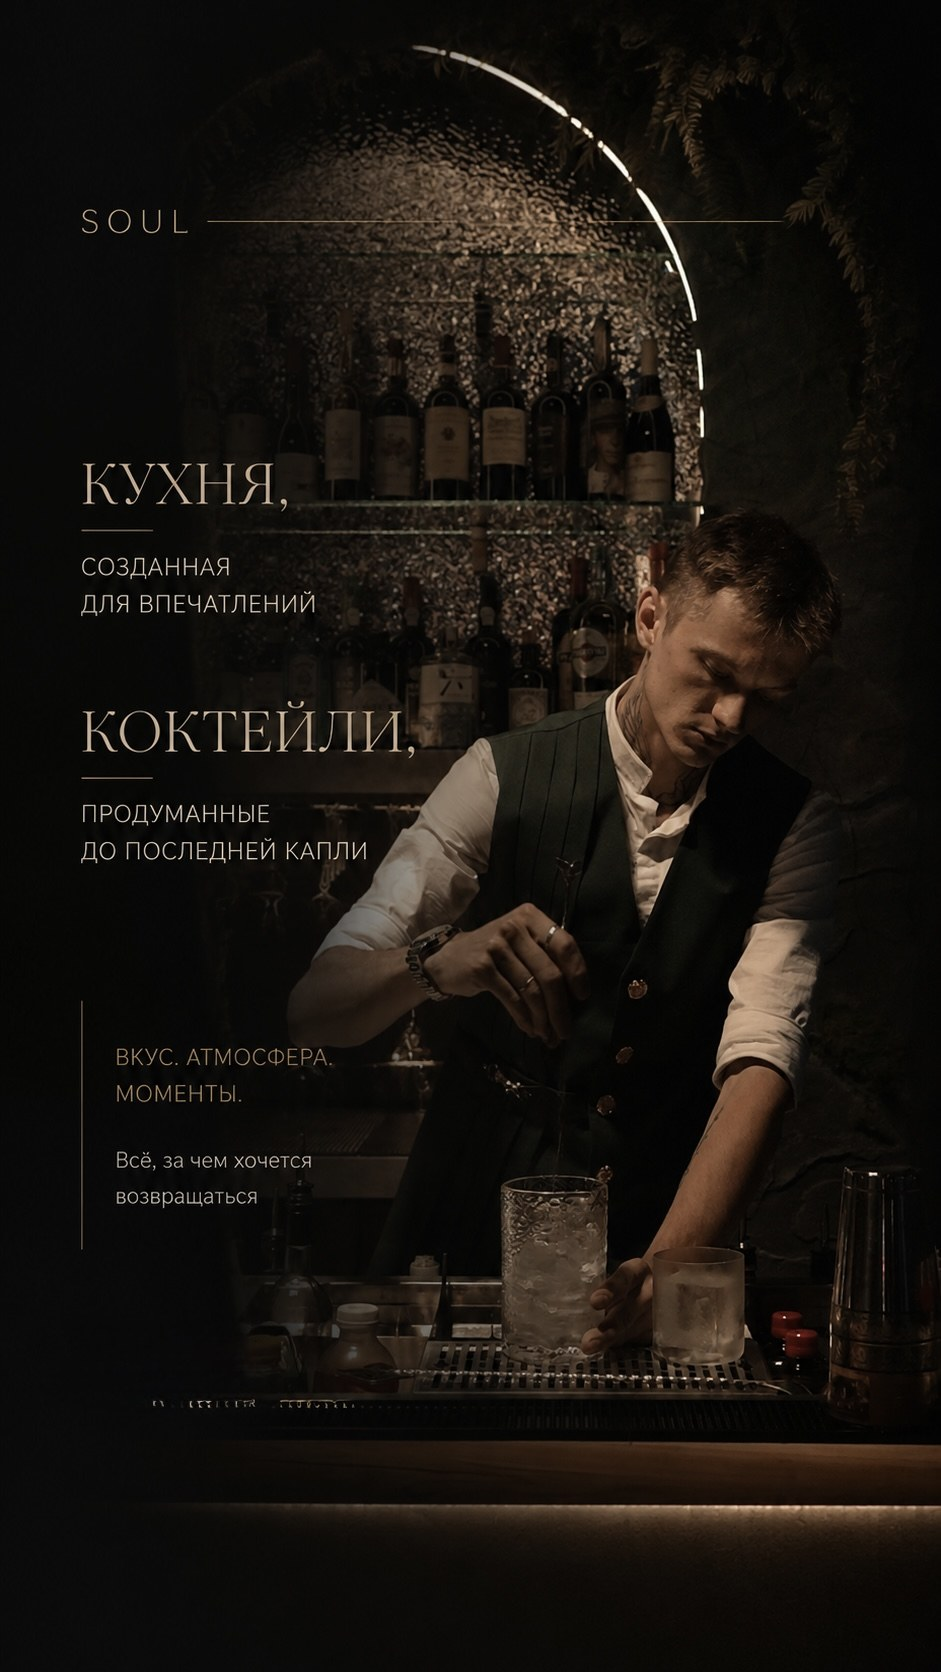
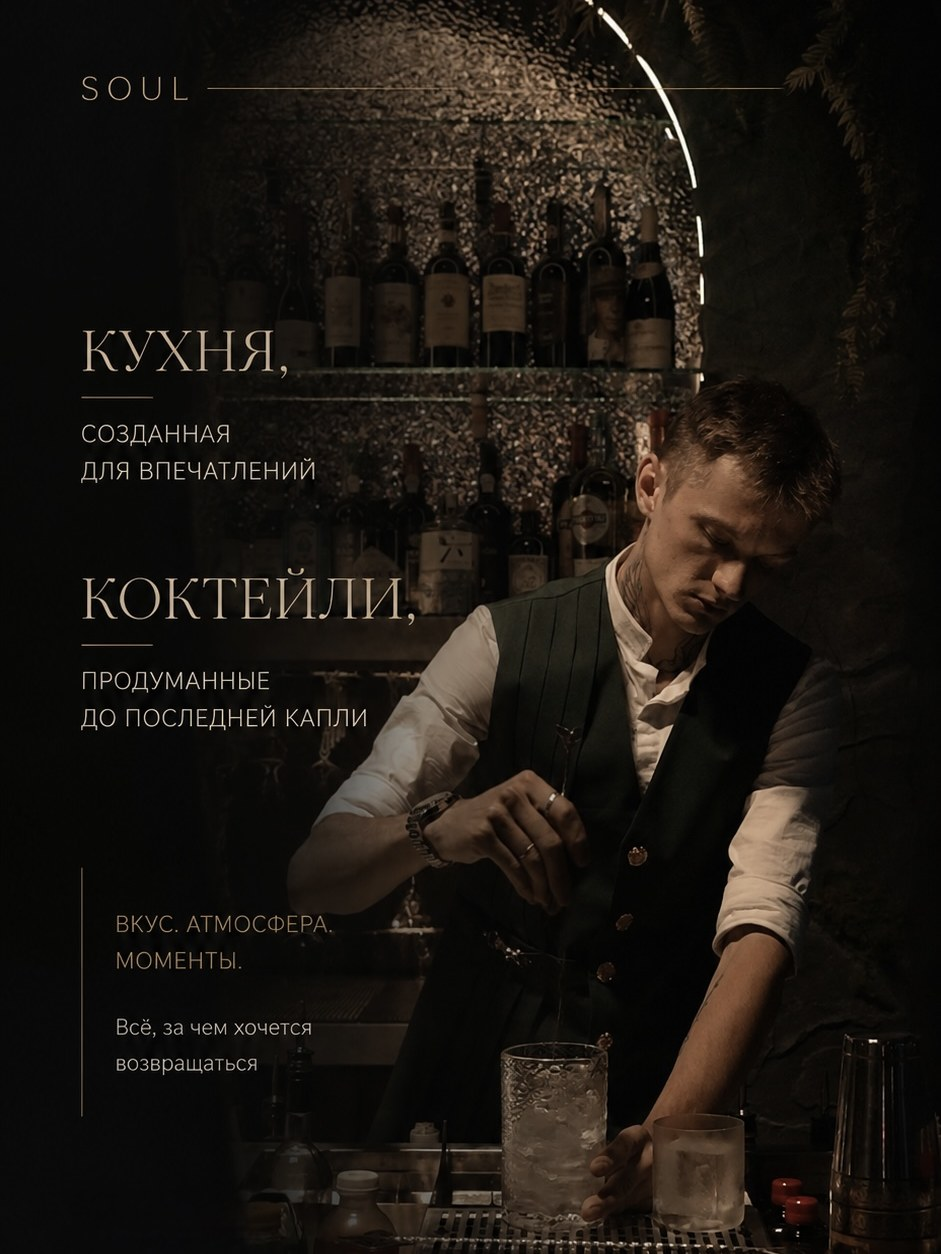
SOUL: crop fixes, equal gallery grid, emerald vine guide
- Uniform gallery tiles (no empty holes from tall spans)
- Better object-position for faces and posters
- Stronger testimonials overlay
- Emerald palette + scroll-growing vine along the page

diff --git a/src/components/shared/VineGuide.tsx b/src/components/shared/VineGuide.tsx
@@ -1,0 +1,67 @@
+"use client";
+
+import { useEffect, useState } from "react";
+
+/** Decorative emerald vine that grows with scroll — guides through the page */
+export function VineGuide() {
+  const [progress, setProgress] = useState(0);
+
+  useEffect(() => {
+    const onScroll = () => {
+      const max = document.documentElement.scrollHeight - window.innerHeight;
+      const p = max > 0 ? window.scrollY / max : 0;
+      setProgress(Math.min(1, Math.max(0, p)));
+    };
+    onScroll();
+    window.addEventListener("scroll", onScroll, { passive: true });
+    return () => window.removeEventListener("scroll", onScroll);
+  }, []);
+
+  const pathLen = 2400;
+  const dash = pathLen * (0.12 + progress * 0.88);
+
+  return (
+    <div className="vine-guide" aria-hidden>
+      <svg viewBox="0 0 60 2400" preserveAspectRatio="none">
+        <defs>
+          <linearGradient id="vineGrad" x1="0" y1="0" x2="0" y2="1">
+            <stop offset="0%" stopColor="#1a8a72" stopOpacity="0.2" />
+            <stop offset="40%" stopColor="#b08b5a" stopOpacity="0.75" />
+            <stop offset="100%" stopColor="#0d5c4d" stopOpacity="0.9" />
+          </linearGradient>
+        </defs>
+        <path
+          d="M30 0
+             C 48 80, 12 160, 30 240
+             C 48 320, 12 400, 30 480
+             C 50 560, 10 640, 30 720
+             C 48 800, 14 880, 30 960
+             C 46 1040, 12 1120, 30 1200
+             C 50 1280, 10 1360, 30 1440
+             C 48 1520, 14 1600, 30 1680
+             C 46 1760, 12 1840, 30 1920
+             C 50 2000, 10 2080, 30 2160
+             C 48 2240, 16 2320, 30 2400"
+          strokeDasharray={`${dash} ${pathLen}`}
+          strokeDashoffset={0}
+          style={{ transition: "stroke-dasharray 0.15s linear" }}
+        />
+        {/* leaves along the vine */}
+        {[180, 420, 660, 900, 1140, 1380, 1620, 1860, 2100].map((y, i) => {
+          const visible = progress > i / 12;
+          const side = i % 2 === 0 ? 1 : -1;
+          return (
+            <g
+              key={y}
+              opacity={visible ? 0.85 : 0}
+              style={{ transition: "opacity 0.5s ease" }}
+              transform={`translate(${30 + side * 8}, ${y}) rotate(${side * 25})`}
+            >
+              <ellipse className="leaf" cx="0" cy="0" rx="7" ry="14" />
+            </g>
+          );
+        })}
+      </svg>
+    </div>
+  );
+}

diff --git a/src/components/sections/Gallery.tsx b/src/components/sections/Gallery.tsx
@@ -11,8 +11,8 @@ import { staggerContainer, staggerItem } from "@/components/shared/Reveal";
 import { cn } from "@/lib/utils";
 
 const spanClass: Record<string, string> = {
-  tall: "row-span-2 aspect-[3/4] sm:aspect-auto",
-  wide: "sm:col-span-2 aspect-[16/10]",
+  tall: "aspect-square",
+  wide: "aspect-square",
   square: "aspect-square",
 };
 
@@ -40,7 +40,7 @@ export function Gallery() {
           initial="hidden"
           whileInView="show"
           viewport={{ once: true, margin: "-8% 0px" }}
-          className="grid auto-rows-[minmax(180px,auto)] grid-cols-2 gap-4 sm:grid-cols-3 lg:grid-cols-4 lg:gap-5"
+          className="grid grid-cols-2 gap-3 sm:grid-cols-3 lg:grid-cols-4 lg:gap-4"
         >
           {gallery.map((item, i) => (
             <motion.button
@@ -58,7 +58,7 @@ export function Gallery() {
                 alt={item.alt}
                 fill
                 sizes="(max-width: 640px) 50vw, (max-width: 1024px) 33vw, 25vw"
-                className="object-cover object-center transition-transform duration-[1.2s] ease-out group-hover:scale-110"
+                className="object-cover object-[center_30%] transition-transform duration-[1.2s] ease-out group-hover:scale-105"
               />
               <div className="absolute inset-0 bg-noir/25 opacity-0 transition-opacity duration-500 group-hover:opacity-100" />
               <span className="absolute right-4 top-4 flex h-10 w-10 translate-y-2 items-center justify-center rounded-full border border-gold/50 bg-noir/50 text-gold opacity-0 backdrop-blur-sm transition-all duration-500 group-hover:translate-y-0 group-hover:opacity-100">

diff --git a/src/components/sections/Testimonials.tsx b/src/components/sections/Testimonials.tsx
@@ -39,9 +39,9 @@ export function Testimonials() {
         aria-hidden
         fill
         sizes="100vw"
-        className="-z-10 object-cover opacity-35"
+        className="-z-10 object-cover object-center opacity-25"
       />
-      <div className="absolute inset-0 -z-10 bg-noir/75" />
+      <div className="absolute inset-0 -z-10 bg-noir/85" />
       <div className="absolute inset-x-0 top-0 -z-10 h-40 bg-fade-bottom" />
       <div className="absolute inset-x-0 bottom-0 -z-10 h-40 bg-fade-top" />
 
@@ -52,7 +52,7 @@ export function Testimonials() {
       >
         <Eyebrow align="center">Отзывы гостей</Eyebrow>
 
-        <div className="relative mx-auto mt-12 min-h-[280px] max-w-3xl text-center sm:min-h-[260px]">
+        <div className="relative z-10 mx-auto mt-12 min-h-[300px] max-w-3xl px-2 text-center sm:min-h-[280px]">
           <Quote
             aria-hidden
             className="mx-auto h-9 w-9 text-gold/40"
@@ -83,7 +83,7 @@ export function Testimonials() {
           </AnimatePresence>
         </div>
 
-        <div className="mt-10 flex items-center justify-center gap-6">
+        <div className="relative z-10 mt-12 flex items-center justify-center gap-6">
           <button
             aria-label="Предыдущий отзыв"
             onClick={() => go(-1)}

diff --git a/src/lib/data.ts b/src/lib/data.ts
@@ -312,12 +312,12 @@ export const faq = [
 
 /* — Галерея — */
 export const gallery = [
-  { src: "/images/interior-hall.jpg", alt: "Зал SOUL — хрусталь и зелень", span: "tall" },
-  { src: "/images/atmosphere.jpg", alt: "Атмосфера SOUL — лучи света", span: "wide" },
-  { src: "/images/details.jpg", alt: "Детали SOUL", span: "square" },
+  { src: "/images/interior-hall.jpg", alt: "Зал SOUL — хрусталь и зелень", span: "square" },
+  { src: "/images/atmosphere.jpg", alt: "Атмосфера SOUL — лучи света", span: "square" },
   { src: "/images/gastronomy.jpg", alt: "Гастрономия SOUL", span: "square" },
-  { src: "/images/lounge.jpg", alt: "Lounge-зона SOUL", span: "tall" },
-  { src: "/images/states.jpg", alt: "Вечер в SOUL", span: "wide" },
-  { src: "/images/bar.jpg", alt: "Бар SOUL", span: "tall" },
+  { src: "/images/lounge.jpg", alt: "Lounge-зона SOUL", span: "square" },
+  { src: "/images/bar.jpg", alt: "Бар SOUL", span: "square" },
+  { src: "/images/details.jpg", alt: "Интерьер SOUL", span: "square" },
   { src: "/images/oasis.jpg", alt: "Оазис SOUL", span: "square" },
+  { src: "/images/hero.jpg", alt: "Концепция SOUL", span: "square" },
 ] as const;

diff --git a/src/app/globals.css b/src/app/globals.css
@@ -124,3 +124,43 @@
     scroll-behavior: auto !important;
   }
 }
+
+
+/* Emerald accents */
+:root {
+  --emerald: 13 92 77;
+  --emerald-soft: 26 138 114;
+}
+
+/* Decorative vine guide along the page */
+.vine-guide {
+  position: fixed;
+  left: 12px;
+  top: 0;
+  bottom: 0;
+  width: 48px;
+  z-index: 40;
+  pointer-events: none;
+  opacity: 0.55;
+}
+@media (min-width: 1024px) {
+  .vine-guide { left: 18px; width: 56px; opacity: 0.7; }
+}
+@media (max-width: 640px) {
+  .vine-guide { left: 4px; width: 28px; opacity: 0.4; }
+}
+.vine-guide svg {
+  height: 100%;
+  width: 100%;
+}
+.vine-guide path {
+  fill: none;
+  stroke: url(#vineGrad);
+  stroke-width: 1.4;
+  stroke-linecap: round;
+}
+.vine-guide .leaf {
+  fill: rgba(26, 138, 114, 0.55);
+  stroke: rgba(176, 139, 90, 0.35);
+  stroke-width: 0.5;
+}

diff --git a/src/components/sections/Events.tsx b/src/components/sections/Events.tsx
@@ -44,7 +44,7 @@ export function Events() {
                   alt={`${event.title} — ${event.subtitle}`}
                   fill
                   sizes="(max-width: 768px) 100vw, (max-width: 1024px) 50vw, 33vw"
-                  className="object-cover transition-transform duration-[1.4s] ease-out group-hover:scale-[1.06]"
+                  className="object-cover object-[center_20%] transition-transform duration-[1.4s] ease-out group-hover:scale-[1.04]"
                 />
                 <div className="absolute inset-0 bg-gradient-to-t from-noir via-noir/35 to-transparent" />
 

diff --git a/src/app/layout.tsx b/src/app/layout.tsx
@@ -1,3 +1,4 @@
+import { VineGuide } from "@/components/shared/VineGuide";
 import type { Metadata, Viewport } from "next";
 import { Cormorant_Garamond, Montserrat } from "next/font/google";
 import "./globals.css";
@@ -120,7 +121,8 @@ export default function RootLayout({
         <Navbar />
 
         <SmoothScroll>
-          <main id="main">{children}</main>
+          <main id="main">{children}
+        <VineGuide /></main>
           <Footer />
         </SmoothScroll>
 

diff --git a/tailwind.config.ts b/tailwind.config.ts
@@ -22,6 +22,12 @@ const config: Config = {
         bone: "#f2f2f2",
         ash: "#9a9187",
         moss: "#232a20",
+        emerald: {
+          DEFAULT: "#0d5c4d",
+          soft: "#1a8a72",
+          deep: "#064036",
+          glow: "rgba(26,138,114,0.35)",
+        },
       },
       fontFamily: {
         serif: ["var(--font-cormorant)", "Cormorant Garamond", "Georgia", "serif"],

diff --git a/src/components/sections/Hero.tsx b/src/components/sections/Hero.tsx
@@ -32,7 +32,7 @@ export function Hero() {
             fill
             priority
             sizes="100vw"
-            className="object-cover object-[center_22%]"
+            className="object-cover object-[center_15%]"
           />
         </div>
         <div className="absolute inset-0 bg-gradient-to-b from-noir/70 via-noir/40 to-noir" />
